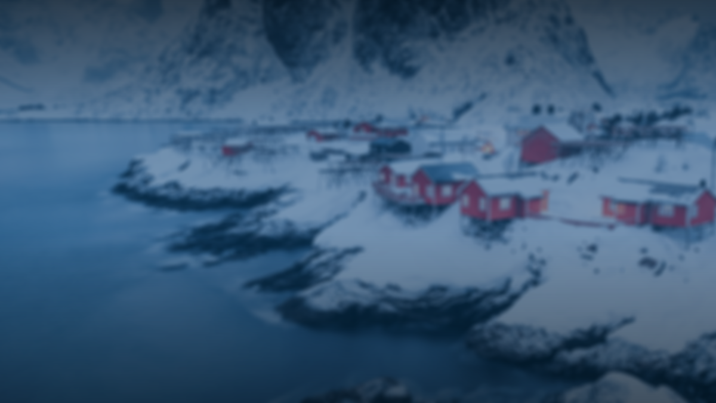
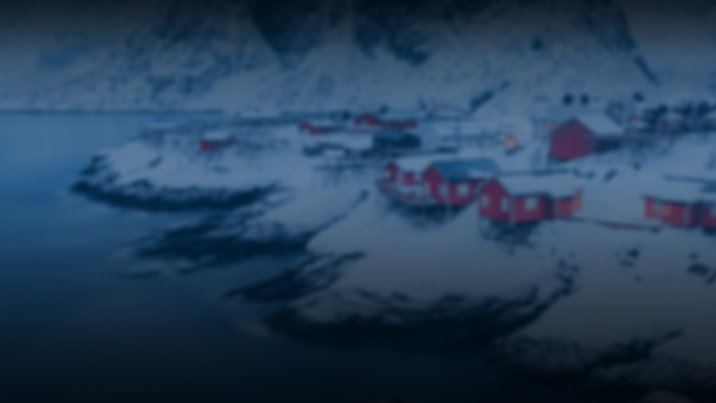
A lot of adjustments

diff --git a/public/public_css/booking.css b/public/public_css/booking.css
@@ -5,7 +5,7 @@ body, div, h2, p, button {
 }
 
 body {
-    background: url("https://www.wapititravel.com/blog/wp-content/uploads/2022/08/Driving-in-Swedish-Lapland-in-winter-2-1024x640.jpg.webp");
+    background-image: url('banner.png');
     background-repeat: no-repeat;
     background-size: cover;
     background-attachment: fixed;
@@ -16,17 +16,13 @@ body::before,
 body::after {
     content: "";
     background: inherit;
-    filter: blur(10px);
-    position: absolute;
+    position: fixed;
+    filter: blur(10px) brightness(60%);
     top: 0;
     left: 0;
     width: 100%;
     height: 100%;
     z-index: -5;
-}
-
-body::after {
-    background: rgba(138, 189, 231, 0.5);
 }
 
 #finland-map
@@ -35,7 +31,31 @@ body::after {
     scrollbar-width: thin;
     scrollbar-color: #6b6b6b #f1f1f1;
     -webkit-overflow-scrolling: touch;
-    max-height: 250px;
+    scrollbar-width: thin;
+    max-height: 220px;
+}
+
+#finland-map::-webkit-scrollbar 
+{
+    width: 12px;
+}
+
+#finland-map::-webkit-scrollbar-thumb 
+{
+    background: rgba(16, 33, 49, 0.6);
+    border: 1px solid rgba(255, 255, 255, 0.3);
+    border-radius: 15px;
+}
+
+#finland-map::-webkit-scrollbar-thumb:hover
+{
+    background: linear-gradient(rgba(98, 124, 192, 0.2), rgba(153, 152, 152, 0.1)) !important;
+}
+
+#finland-map::-webkit-scrollbar-track 
+{
+    background-color: rgba(0, 0, 0, 0.1);
+    border-radius: 25px;
 }
 
 #map {
@@ -44,7 +64,7 @@ body::after {
 
 .schema-container
 {
-    background-color: rgba(255, 255, 255, 0.6);
+    background: linear-gradient(rgba(253, 253, 253, 0.2), rgba(232, 232, 236, 0.1)) !important;
     box-shadow: 0 0 10px rgba(0, 0, 0, 0.1);
 }
 
@@ -76,12 +96,14 @@ body::after {
 
 #trip-details-container {
     margin: 20px;
+    color: white;
     align-items: center;
     text-align: center;
     padding: 20px;
-    background-color: rgba(255, 255, 255, 0.8);
     border-radius: 10px;
-    box-shadow: 0 0 10px rgba(0, 0, 0, 0.2);
+    background: rgba(32, 52, 70, 0.4);
+    box-shadow: 0 0 10px rgba(0, 0, 0, 0.5);
+    border: 1px solid rgba(255, 255, 255, 0.3);
 }
 
 h2 {
@@ -92,8 +114,10 @@ h2 {
 .trip-map {
     margin-top: 20px;
     height: 200px;
-    background-color: rgba(223, 223, 223, 0.6);
-    border-radius: 15px;
+    border-radius: 10px;
+    background: rgba(18, 30, 41, 0.4);
+    box-shadow: 0 0 10px rgba(0, 0, 0, 0.5);
+    border: 1px solid rgba(255, 255, 255, 0.3);
 }
 
 .button-enroll, .button-cancel-enroll
@@ -144,5 +168,5 @@ h2 {
 }
 
 .leaflet-tile {
-    filter: hue-rotate(15deg) !important;
+    filter: hue-rotate(12deg) !important;
 }

diff --git a/public/scripts/main.js b/public/scripts/main.js
@@ -1,0 +1,34 @@
+// Function to check and replace text if it overflows the container
+function checkAndReplaceText() {
+    const navItems = document.querySelectorAll('.nav-item');
+    const emojis = ['🌐', '🔎', '🔐', '🚪', '👋'];
+    var replace = false;
+    const isMobile = navigator.userAgentData.mobile;
+
+    // Replace text with emojis for all items if any one of them overflows
+    if (isMobile) {
+        navItems.forEach((item, index) => {
+            // Store the original text content before replacing
+            if (!item.hasAttribute('data-original-text')) {
+                item.setAttribute('data-original-text', item.textContent);
+            }
+            // Replace with emoji
+            if (index < emojis.length) {
+                item.textContent = emojis[index];
+            }
+        });
+    } else {
+        // Restore the original text content for all items if none of them overflow
+        navItems.forEach((item) => {
+            if (item.hasAttribute('data-original-text')) {
+                item.textContent = item.getAttribute('data-original-text');
+            }
+        });
+    }
+}
+
+// Call the function when the DOM is fully loaded
+document.addEventListener('DOMContentLoaded', checkAndReplaceText);
+
+// Add a listener for the window resize event
+window.addEventListener('resize', checkAndReplaceText);

diff --git a/public/public_css/header.css b/public/public_css/header.css
@@ -35,7 +35,7 @@ body, html {
 
 .nav-item 
 {
-  background: linear-gradient(rgba(110, 158, 230, 0.3), rgba(105, 103, 103, 0.1)) !important;
+  background: linear-gradient(rgba(132, 176, 241, 0.3), rgba(170, 170, 172, 0.1)) !important;
   color: white;
   line-height: 50px;
   flex: 1;
@@ -152,8 +152,14 @@ body, html {
   word-wrap: break-word;
 }
 
+
 @media (max-width: 700px) 
 {
+  .logo-text
+  {
+    font-size: 12px !important;
+  }
+
   .nav-item
   {
     width: 15%;
@@ -198,9 +204,7 @@ body, html {
   {
     width: 15%;
     padding: 0 12.5px;
-    white-space: nowrap;
     overflow: hidden; 
-    text-overflow: ellipsis;
     max-width: 100%; 
   }
 
@@ -227,7 +231,7 @@ body, html {
   text-align: center;
   background-image: url("scan.png");
   background-repeat: no-repeat;
-  background-size: 100% 100%;
+  background-size: cover;
   text-decoration-color: whitesmoke;
   margin-bottom: 165px;
 }
@@ -496,7 +500,7 @@ body, html {
   display: flex;
   justify-content: center;
   align-items: center;
-  margin-top: 127px;
+  margin-top: 23px;
   padding: 0 20px;
   flex-shrink: 0;
   box-sizing: border-box;

diff --git a/resources/views/start_booking.blade.php b/resources/views/start_booking.blade.php
@@ -21,6 +21,7 @@
 
     <!-- jQuery -->
     <script src="https://code.jquery.com/jquery-3.6.0.min.js"></script>
+    <script src="{{ asset('scripts/main.js') }}"></script>
 
     <!-- Icon -->
     <link rel="icon" href="{{ asset('Skawo-Glass.ico') }}" type="image/x-icon">
@@ -111,14 +112,14 @@
                     @endif
 
                         <h3 style="margin-top: 35px;">${clickedTrip.description}</h3>
-                        <hr style="width: 60%; background: linear-gradient(to left, transparent, black, transparent;">
+                        <hr  style="width: 60%;" class="faded-hr">
                         <p>Start Date: ${clickedTrip.start_date}</p>
                         <p>End Date: ${clickedTrip.end_date}
-                        <hr style="width: 30%; background: linear-gradient(to left, transparent, black, transparent;">
+                        <hr  style="width: 60%;" class="faded-hr">
                         <div class="schema-container">
                         <p>End Date: ${clickedTrip.trip_schema}
                         </div>
-                        <hr style="width: 30%; background: linear-gradient(to left, transparent, black, transparent;">
+                        <hr  style="width: 30%;" class="faded-hr">
                         
                         @if(request()->username && request()->username !== 'Guest')
                             <form id="enrollForm" action="/enrollUser" method="POST">
@@ -132,7 +133,7 @@
                                 @endif
                             </form>
                         @else
-                     <div style="margin-top: 5px;" class="animated-text"><i class="fa-solid fa-triangle-exclamation fa-beat fa-3x" style="color: rgb(0, 0, 0);"></i> <p>Please sign in to enroll.</p></div>
+                     <div style="margin-top: 5px;" class="animated-text"><i class="fa-solid fa-triangle-exclamation fa-beat fa-3x" style="color: rgb(255, 255, 255);"></i> <p>Please sign in to enroll.</p><br></div>
                     @endif
                    
                     </div>

diff --git a/resources/views/index.blade.php b/resources/views/index.blade.php
@@ -11,10 +11,10 @@
     <link rel="preconnect" href="https://fonts.bunny.net">
     <link href="https://fonts.bunny.net/css?family=figtree:400,600&display=swap" rel="stylesheet" />
     <script src="https://kit.fontawesome.com/8b6addd488.js" crossorigin="anonymous"></script>
+    <script src="{{ asset('scripts/main.js') }}"></script>
 
     <!-- Styles -->
     <link rel="stylesheet" href="{{ asset('public_css/header.css') }}">
-
     <!-- Icon -->
     <link rel="icon" href="{{ asset('Skawo-Glass.ico') }}" type="image/x-icon">
 </head>
@@ -32,13 +32,13 @@
     </div>
 
     <div class="container">
-        <div class="nav-item" onclick="redirect_to_route('about')">ABOUT</div>
+        <div class="nav-item" onclick="redirect_to_route('about')">ABOUT </div>
         <div class="nav-item" onclick="redirect_to_route('start_booking')">START BOOKING</div>
         <div class="nav-item" onclick="redirect_to_route('sign_in')">SIGN IN</div>
         <div class="nav-item" onclick="redirect_to_route('sign_out')">SIGN OUT</div>
         <div class="nav-item">Welcome, <span id="username-display">{{ request()->username ?? 'Guest'}}</span>!</div>
     </div>
-    
+
     <div id="middle">
         <h1 id="text-middle">What's our mission?</h1>
         <div id="middle-content">
